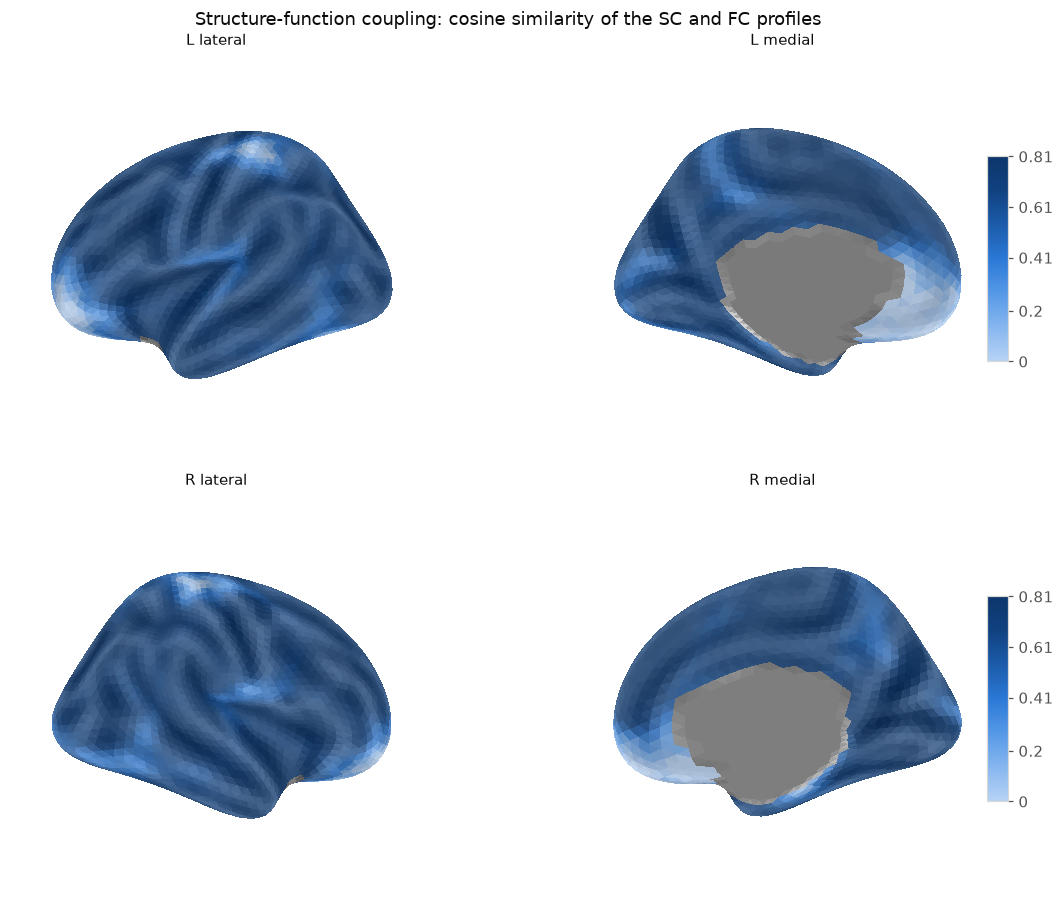
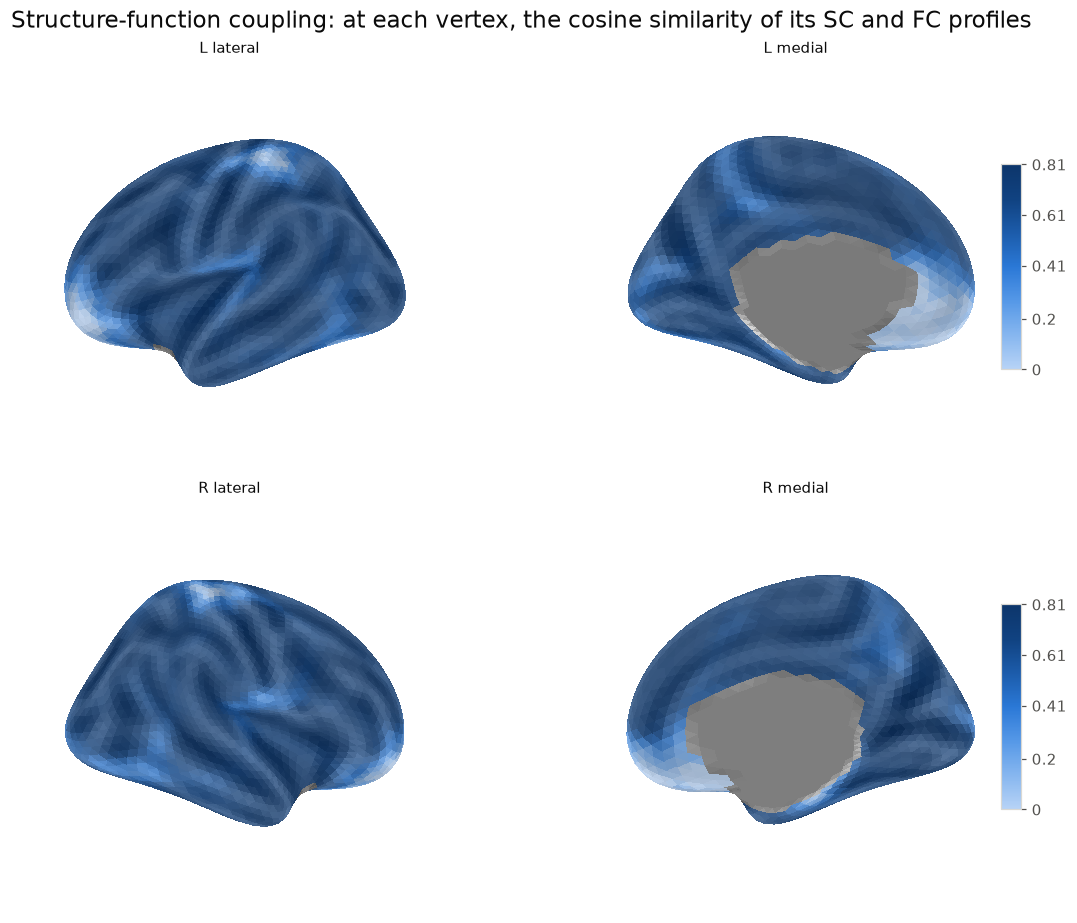
Mark the seed on the profile figure and give the surface figures readable titles
The seed-profile figure showed where vertex 1234 connects to without showing
where vertex 1234 is; an orange dot now marks it on the lateral view of its
hemisphere (drawn in plain order, since a 3-D axes would otherwise sort it
under the mesh). The surface figures' titles were 12 point on figures a
thousand pixels wide and read as footnotes; they are 15 point now and say
what the map is, for the profile: the density of streamlines between the
seed and every other vertex, relative to the strongest. The README and the
figure index say the same.

diff --git a/scripts/make_figures.py b/scripts/make_figures.py
@@ -39,6 +39,7 @@ SURFACE_RAMP = LinearSegmentedColormap.from_list(
 #: so the profile and the region matrix are smooth rather than speckled.
 N_STREAMLINES = 200_000
 VIEWS = ("lateral", "medial")
+TITLE_SIZE = 15  # the surface figures are large; a 12-point title reads as a footnote on them
 
 plt.rcParams.update(
     {
@@ -64,12 +65,37 @@ def save(figure, out: Path, name: str, dpi: int = 110) -> None:
     print(f"  wrote {path} ({path.stat().st_size // 1024} KB)", flush=True)
 
 
+SEED = 1234  # a left temporal vertex
+
+
 def seed_profile(out: Path, cc) -> None:
-    profile = cc.seed(vertex=1234)
+    profile = cc.seed(vertex=SEED)
     profile = profile / profile.max()  # unit-mass densities are 1e-10 per pair; show the shape
     figure = cc.plot(profile, views=VIEWS, cmap=SURFACE_RAMP, threshold=0.02, vmin=0.02, vmax=1.0)
+    # Mark the seed on the lateral view of its hemisphere. nilearn recentres
+    # each hemisphere on its own mean before drawing, so do the same.
+    left = np.asarray(sbci.load_surface("inflated").vertices[: cc.n_vertices // 2], dtype=float)
+    x, y, z = left[SEED] - left.mean(axis=0)
+    lateral = figure.axes[0]
+    # A 3-D axes sorts artists by depth and would bury the dot under the mesh;
+    # switch to drawing order so the marker sits on top.
+    lateral.computed_zorder = False
+    lateral.scatter(
+        [x],
+        [y],
+        [z],
+        s=90,
+        color=ORANGE,
+        edgecolor="white",
+        linewidth=1.5,
+        zorder=10,
+        depthshade=False,
+    )
     figure.suptitle(
-        "Connectivity of one vertex (1234, left temporal cortex), relative to its peak", y=1.02
+        f"Where one vertex connects to: the density of streamlines between vertex {SEED} "
+        "(orange dot, left temporal cortex)\nand every other vertex, relative to the strongest",
+        fontsize=TITLE_SIZE,
+        y=1.06,
     )
     save(figure, out, "seed_profile.png")
 
@@ -112,7 +138,10 @@ def coupling(out: Path, sc, fc) -> None:
     # scale would paint the whole surface one shade: run the ramp from zero.
     figure = sc.plot(values, views=VIEWS, cmap=SURFACE_RAMP, symmetric=False, vmin=0.0)
     figure.suptitle(
-        "Structure-function coupling: cosine similarity of the SC and FC profiles", y=1.02
+        "Structure-function coupling: at each vertex, the cosine similarity of its SC and FC "
+        "profiles",
+        fontsize=TITLE_SIZE,
+        y=1.03,
     )
     save(figure, out, "coupling.png")
 
@@ -134,7 +163,9 @@ def cohort_figures(out: Path) -> None:
         cohort.truth, views=VIEWS, cmap=SURFACE_RAMP, threshold=0.02, vmin=0.02, vmax=1.0
     )
     figure.suptitle(
-        "The planted bundle: the field one bundle's weight scales with age (cohort.truth)", y=1.02
+        "The planted bundle: the field whose weight scales with age (cohort.truth)",
+        fontsize=TITLE_SIZE,
+        y=1.03,
     )
     save(figure, out, "cohort_truth.png")
 
@@ -143,9 +174,10 @@ def cohort_figures(out: Path) -> None:
     figure = subject.plot(effect, views=VIEWS, cmap="coolwarm", symmetric=True, threshold=0.05)
     correlation = np.corrcoef(effect, cohort.truth)[0, 1]
     figure.suptitle(
-        f"Recovered: the effect map of the significant component "
+        "Recovered: the effect map of the component that tracks age\n"
         f"(correlation with the planted field {correlation:.2f})",
-        y=1.02,
+        fontsize=TITLE_SIZE,
+        y=1.06,
     )
     save(figure, out, "cohort_effect.png")
 

diff --git a/docs/figures/README.md b/docs/figures/README.md
@@ -18,7 +18,7 @@ there is nothing to see.
 
 | Figure | What it shows |
 | --- | --- |
-| `seed_profile.png` | `cc.seed(vertex=1234)` on the inflated surface: the density of connections from one left temporal vertex to every other, relative to its peak, for a 200,000-streamline example |
+| `seed_profile.png` | `cc.seed(vertex=1234)` on the inflated surface: at each vertex, the density of streamlines between the seed (orange dot, left temporal cortex) and that vertex, relative to the strongest, for a 200,000-streamline example |
 | `region_matrix.png` | `cc.to_atlas("Desikan")`: the same subject collapsed to 68 regions, on a log scale |
 | `coupling.png` | `sc.coupling(fc)`: structure-function coupling of the matching SC and FC examples, one value per vertex |
 | `spherical_kernel.png` | the kernel `smooth(kernel="shk")` applies, at the released bandwidth and twice it, with its cutoffs |

diff --git a/README.md b/README.md
@@ -57,10 +57,11 @@ drawn, not tracked.
 
 ![The connectivity of one vertex over the cortex](docs/figures/seed_profile.png)
 
-*`cc.plot(cc.seed(vertex=1234))`: the density of connections from one
-left temporal vertex to every other, on the inflated surface shaded by sulcal
-depth. More figures, all from the synthetic data, are in
-[docs/figures](docs/figures/README.md).*
+*`cc.plot(cc.seed(vertex=1234))`: where one vertex connects to. The value at
+each vertex is the density of streamlines between the seed (the orange dot,
+left temporal cortex) and that vertex, relative to the strongest, on the
+inflated surface shaded by sulcal depth. More figures, all from the synthetic
+data, are in [docs/figures](docs/figures/README.md).*
 
 ## With real data
 
